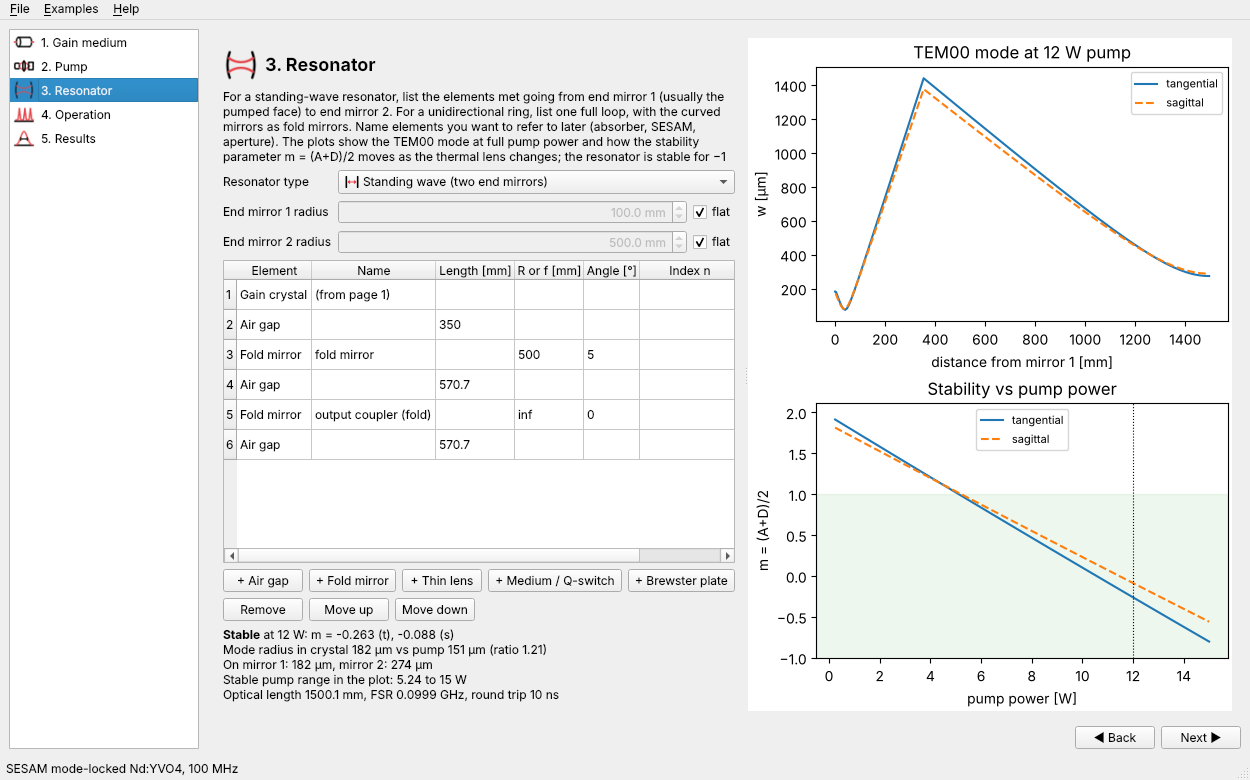
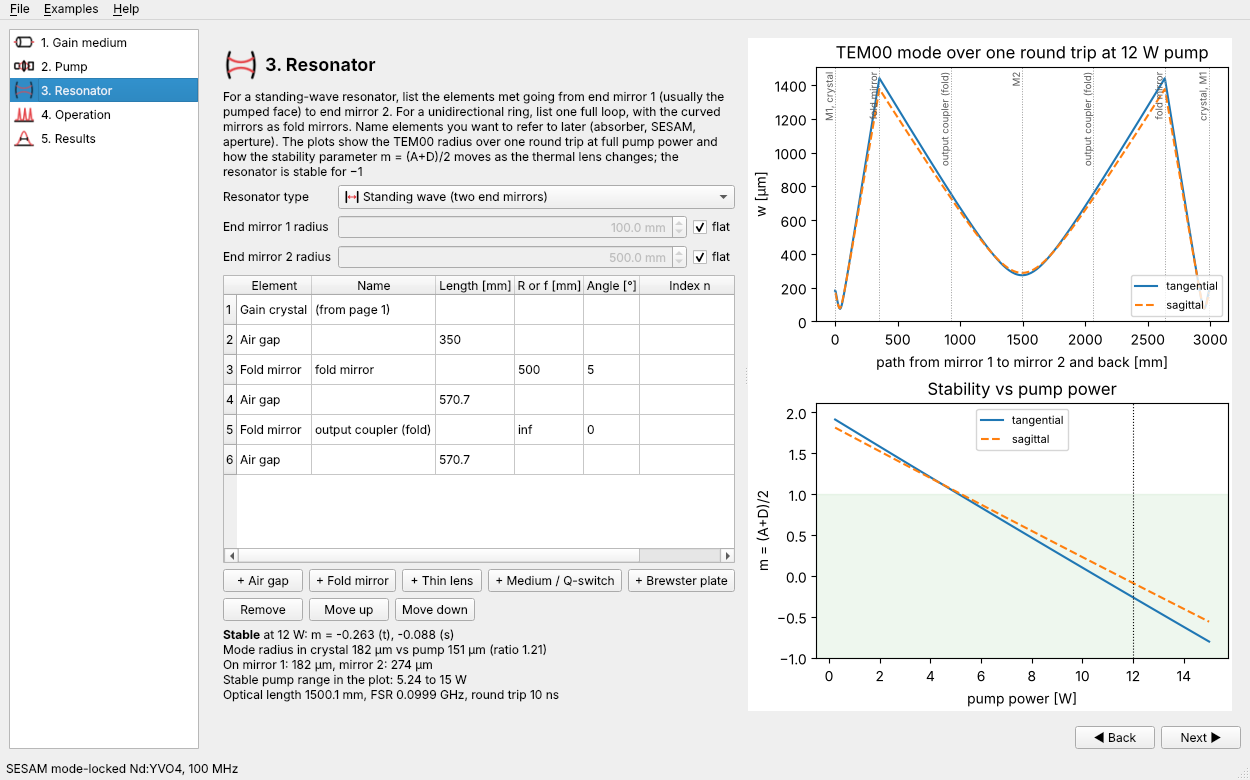
Plot the beam radius over one resonator round trip
The resonator step of the Qt wizard and the web version now shows the TEM00
radius over a full round trip: end mirror 1 -> end mirror 2 -> end mirror 1
for a standing-wave cavity, once around the loop for a ring. Mirrors, the
crystal and named thin elements are marked with labelled dotted lines.

- abcd: round_trip_profile() on both resonator types; ModeProfile gains
  landmarks.
- gui.spec.round_trip_mode(): shared plot data used by both front ends.
- web plot.js: labelled vertical reference lines.
- Tests, docs, CHANGELOG and screenshots updated.

Claude-Session: https://claude.ai/code/session_01VbzFnRmv7Hi3q9jw7PfLox

diff --git a/web/app.js b/web/app.js
@@ -448,7 +448,7 @@ const STEPS = [
   { key: "pump", title: "2. Pump", icon: "step-pump", inputs: pumpInputs,
     help: "Choose end pumping (a focused beam along the laser axis) or side pumping (a rod pumped uniformly from the side by diodes or lamps). Fibre-coupled diodes are best described by their M² (fibre radius × NA × π / λ)." },
   { key: "resonator", title: "3. Resonator", icon: "step-resonator", inputs: resonatorInputs,
-    help: "For a standing-wave resonator, list the elements met going from end mirror 1 (usually the pumped face) to end mirror 2. For a unidirectional ring, list one full loop, with the curved mirrors as fold mirrors. Name elements you want to refer to later (absorber, SESAM, aperture). The plots show the TEM00 mode at full pump power and how the stability parameter m = (A+D)/2 moves as the thermal lens changes; the resonator is stable for −1 < m < 1." },
+    help: "For a standing-wave resonator, list the elements met going from end mirror 1 (usually the pumped face) to end mirror 2. For a unidirectional ring, list one full loop, with the curved mirrors as fold mirrors. Name elements you want to refer to later (absorber, SESAM, aperture). The plots show the TEM00 radius over one round trip at full pump power (mirror 1 to mirror 2 and back to mirror 1, or once around the ring) and how the stability parameter m = (A+D)/2 moves as the thermal lens changes; the resonator is stable for −1 < m < 1." },
   { key: "operation", title: "4. Operation", icon: "step-operation", inputs: operationInputs,
     help: "Choose the output coupling, the other losses and how the laser is run: continuous wave, actively Q-switched with CW pumping, passively Q-switched with a saturable absorber, SESAM mode-locked, or Kerr-lens mode-locked." },
   { key: "results", title: "5. Results", icon: "step-results", inputs: resultsInputs,

diff --git a/web/plot.js b/web/plot.js
@@ -1,6 +1,6 @@
 // Small SVG line-plot renderer for the reports made by laserdesign.web.report.
 // No dependencies: linear and log axes, an optional second y axis, reference
-// lines, a shaded band, markers, a legend and a hover read-out.
+// lines (optionally labelled), a shaded band, markers, a legend and a hover read-out.
 
 const SVG = "http://www.w3.org/2000/svg";
 const DASH = { solid: "", dash: "6 4", dot: "1.5 3" };
@@ -109,7 +109,11 @@ export function drawPlot(host, p) {
   const xs_ = p.xlog ? logScale(...xr) : linearScale(...xr, Math.max(3, Math.round(W / 80)));
   const ys_ = p.ylog ? logScale(...yr) : linearScale(...yr, Math.max(3, Math.round(H / 45)));
   const y2s_ = y2r ? linearScale(...y2r, Math.max(3, Math.round(H / 45))) : null;
-  if (!p.xlog && !p.vlines.length) { xs_.lo = xr[0]; xs_.hi = xr[1]; }
+  // Snap the x axis to the data unless a reference line lies outside it.
+  const dataX = extent(p.series.flatMap((s) => s.x), p.xlog);
+  if (!p.xlog && dataX && p.vlines.every((v) => !finite(v.x) || (v.x >= dataX[0] && v.x <= dataX[1]))) {
+    xs_.lo = xr[0]; xs_.hi = xr[1];
+  }
 
   const tx = (v) => m.l + ((xs_.log ? Math.log10(v) : v) - xs_.lo) / (xs_.hi - xs_.lo) * W;
   const tyFor = (s) => (v) => m.t + H - ((s.log ? Math.log10(v) : v) - s.lo) / (s.hi - s.lo) * H;
@@ -158,6 +162,11 @@ export function drawPlot(host, p) {
   for (const v of p.vlines) {
     if (!finite(v.x)) continue;
     el("line", { x1: tx(v.x), x2: tx(v.x), y1: m.t, y2: m.t + H, class: "ref", "stroke-dasharray": DASH.dot }, body);
+    if (v.label) {
+      const X = tx(v.x) - 3, Y = m.t + 4;
+      el("text", { x: X, y: Y, "text-anchor": "end", class: "ref-label",
+        transform: `rotate(-90 ${X} ${Y})` }, body).textContent = v.label;
+    }
   }
   for (const h of p.hlines) {
     if (!finite(h.y)) continue;

diff --git a/web/style.css b/web/style.css
@@ -187,6 +187,7 @@ main { flex: 1; min-width: 0; padding: 16px 20px 24px; }
 .plot .axis text.label { fill: var(--text); font-size: 12px; }
 .plot .line { fill: none; stroke-width: 1.8; }
 .plot .ref { stroke: var(--muted); stroke-width: 1; }
+.plot .ref-label { fill: var(--muted); font-size: 10px; }
 .plot .band { fill: var(--band); }
 .plot .cross { stroke: var(--muted); stroke-width: 0.8; }
 .plot .c0 { stroke: var(--c0); fill: var(--c0); } .plot .line.c0 { fill: none; }

diff --git a/src/laserdesign/abcd.py b/src/laserdesign/abcd.py
@@ -296,11 +296,15 @@ class ModeProfile:
         1/e^2 intensity radius [m].
     element_starts : list of float
         Position at which each element begins.
+    landmarks : list of (float, str)
+        Positions of mirrors and named thin elements, with a label, for
+        annotating plots. Filled by :meth:`_Resonator.round_trip_profile`.
     """
 
     z: np.ndarray
     w: np.ndarray
     element_starts: list[float]
+    landmarks: list[tuple[float, str]] = field(default_factory=list)
 
 
 class _Resonator:
@@ -371,23 +375,44 @@ class _Resonator:
         """Mode radius at the input of the element called ``name`` [m]."""
         return self.spot_size(self.element_index(name), plane)
 
-    def mode_profile(self, plane: Plane = "t", points_per_element: int = 50) -> ModeProfile:
-        """Sample the mode radius along one forward pass of the element list."""
+    def _sample(self, elements: Sequence[Element], plane: Plane,
+                points_per_element: int) -> ModeProfile:
+        """Sample the mode radius through ``elements``, starting at the reference plane."""
         q = self.eigen_q(plane)
-        zs, ws, starts = [], [], []
+        zs, ws, starts, marks = [], [], [], []
         z0 = 0.0
-        for el in self.elements:
+        for el in elements:
             starts.append(z0)
             if el.length > 0:
                 for frac in np.linspace(0, 1, points_per_element):
                     qq = propagate_q(q, el.partial_matrix(frac, plane))
                     zs.append(z0 + frac * el.length)
                     ws.append(gaussian.spot_size(qq, self.wavelength))
+            elif isinstance(el, CurvedMirror) or el.name:
+                marks.append((z0, el.name or "mirror"))
             q = propagate_q(q, el.matrix(plane))
             z0 += el.length
         if not zs:
             zs, ws = [0.0], [gaussian.spot_size(q, self.wavelength)]
-        return ModeProfile(np.array(zs), np.array(ws), starts)
+        return ModeProfile(np.array(zs), np.array(ws), starts, marks)
+
+    def mode_profile(self, plane: Plane = "t", points_per_element: int = 50) -> ModeProfile:
+        """Sample the mode radius along one forward pass of the element list."""
+        return self._sample(self.elements, plane, points_per_element)
+
+    def round_trip_profile(self, plane: Plane = "t",
+                           points_per_element: int = 50) -> ModeProfile:
+        """Sample the mode radius over one full round trip.
+
+        For a :class:`StandingWaveCavity` the beam starts on end mirror 1,
+        travels to end mirror 2 and comes back to mirror 1, so ``z`` runs from
+        0 to twice the physical length and the curve is symmetric about
+        mirror 2. For a :class:`RingCavity` it is one trip around the loop,
+        the same as :meth:`mode_profile`. ``landmarks`` marks the mirrors
+        (end mirrors as ``"M1"``/``"M2"``) and any named thin element, e.g.
+        the crystal's thermal lens; the last point equals the first.
+        """
+        return self._sample(self._round_trip_elements(), plane, points_per_element)
 
     @property
     def physical_length(self) -> float:
@@ -450,7 +475,16 @@ class StandingWaveCavity(_Resonator):
 
     def _round_trip_elements(self) -> list[Element]:
         back = [el.reversed() for el in reversed(self.elements)]
-        return [*self.elements, CurvedMirror(self.R2), *back, CurvedMirror(self.R1)]
+        return [*self.elements, CurvedMirror(self.R2, name="M2"), *back,
+                CurvedMirror(self.R1, name="M1")]
+
+    def round_trip_profile(self, plane: Plane = "t",
+                           points_per_element: int = 50) -> ModeProfile:
+        prof = super().round_trip_profile(plane, points_per_element)
+        prof.landmarks.insert(0, (0.0, "M1"))
+        return prof
+
+    round_trip_profile.__doc__ = _Resonator.round_trip_profile.__doc__
 
     def spot_size_on_mirror(self, which: int = 1, plane: Plane = "t") -> float:
         """Mode radius on end mirror 1 or 2 [m]."""

diff --git a/src/laserdesign/web/report.py b/src/laserdesign/web/report.py
@@ -21,7 +21,7 @@ and a plot is::
      "series": [{"x": [...], "y": [...], "label": str, "dash": "solid" | "dash" | "dot",
                  "axis": "y" | "y2", "markers": bool, "color": int | None}],
      "hlines": [{"y": float, "axis": "y" | "y2", "dash": str, "label": str}],
-     "vlines": [{"x": float}], "hspan": [lo, hi] | None, "message": str | None}
+     "vlines": [{"x": float, "label": str}], "hspan": [lo, hi] | None, "message": str | None}
 
 The physics and wording follow the Qt wizard in :mod:`laserdesign.gui.pages`.
 """
@@ -43,6 +43,7 @@ from ..gui.spec import (
     build_laser,
     kerr_model,
     library_location,
+    round_trip_mode,
 )
 
 UM, MM, CM = 1e-6, 1e-3, 1e-2
@@ -93,8 +94,14 @@ def plot(title: str, xlabel: str, ylabel: str, *series_, y2label: str | None = N
     return {"title": title, "xlabel": xlabel, "ylabel": ylabel, "y2label": y2label,
             "xlog": xlog, "ylog": ylog, "ylim": list(ylim) if ylim is not None else None,
             "series": list(series_), "hlines": list(hlines),
-            "vlines": [{"x": float(v)} for v in vlines],
+            "vlines": [_vline(v) for v in vlines],
             "hspan": list(hspan) if hspan is not None else None, "message": message}
+
+
+def _vline(v) -> dict:
+    """``x`` or ``(x, label)`` -> ``{"x": x, "label": label}``."""
+    x, label = v if isinstance(v, (tuple, list)) else (v, "")
+    return {"x": float(x), "label": str(label)}
 
 
 def hline(y: float, axis: str = "y", dash: str = "dot", label: str = "") -> dict:
@@ -228,13 +235,15 @@ def resonator(spec: DesignSpec) -> dict:
     info, plots = [], []
     standing = isinstance(cav, StandingWaveCavity)
     if cav.is_stable():
-        mode = [series(prof.z / MM, prof.w / UM,
+        trip = round_trip_mode(cav)
+        mode = [series(trip[plane].z / MM, trip[plane].w / UM,
                        "tangential" if plane == "t" else "sagittal",
                        "solid" if plane == "t" else "dash")
-                for plane in ("t", "s") for prof in [cav.mode_profile(plane)]]
-        plots.append(plot(f"TEM00 mode at {spec.pump_power:.3g} W pump",
-                          "distance from mirror 1 [mm]" if standing
-                          else "position around the ring [mm]", "w [µm]", *mode))
+                for plane in ("t", "s")]
+        top = max(float(trip[p].w.max()) for p in ("t", "s")) / UM
+        plots.append(plot(f"{trip['title']} at {spec.pump_power:.3g} W pump",
+                          trip["xlabel"], "w [µm]", *mode, ylim=(0, 1.08 * top),
+                          vlines=[(z / MM, label) for z, label in trip["landmarks"]]))
         w_l = cav.spot_size_at(CRYSTAL_LENS_NAME)
         pump_kind = "rod" if isinstance(laser, SidePumpedRodLaser) else "pump"
         info.append(f"<b>Stable</b> at {spec.pump_power:.3g} W: m = "

diff --git a/src/laserdesign/gui/pages.py b/src/laserdesign/gui/pages.py
@@ -30,7 +30,7 @@ from ..materials import MATERIALS, get_material
 from ..passive_qswitch import ABSORBERS
 from . import icons
 from .spec import (CRYSTAL_LENS_NAME, DesignSpec, absorber, build_laser, kerr_model,
-                   library_location)
+                   library_location, round_trip_mode)
 from .widgets import PlotCanvas, RadiusInput, UnitSpin, info_label
 
 UM, MM, CM = 1e-6, 1e-3, 1e-2
@@ -415,7 +415,8 @@ class ResonatorPage(Page):
                  "mirror 1 (usually the pumped face) to end mirror 2. For a unidirectional "
                  "ring, list one full loop, with the curved mirrors as fold mirrors. Name "
                  "elements you want to refer to later (absorber, SESAM, aperture). The plots "
-                 "show the TEM00 mode at full pump power and how the stability parameter "
+                 "show the TEM00 radius over one round trip at full pump power and how the "
+                 "stability parameter "
                  "m = (A+D)/2 moves as the thermal lens changes; the resonator is stable "
                  "for −1 < m < 1.")
 
@@ -637,15 +638,20 @@ class ResonatorPage(Page):
         self.plot.clear()
         a1, a2 = self.plot.axes
         if cav.is_stable():
+            trip = round_trip_mode(cav)
             for plane, ls in (("t", "-"), ("s", "--")):
-                prof = cav.mode_profile(plane)
+                prof = trip[plane]
                 a1.plot(prof.z / MM, prof.w / UM, ls,
                         label="tangential" if plane == "t" else "sagittal")
+            a1.set_ylim(bottom=0)
+            for z, label in trip["landmarks"]:
+                a1.axvline(z / MM, c="0.6", lw=0.7, ls=":")
+                a1.text(z / MM, 0.98, label, rotation=90, ha="right", va="top", fontsize=7,
+                        color="0.35", transform=a1.get_xaxis_transform())
             standing = isinstance(cav, StandingWaveCavity)
-            a1.set(xlabel="distance from mirror 1 [mm]" if standing
-                   else "position around the ring [mm]", ylabel="w [µm]",
-                   title=f"TEM00 mode at {spec.pump_power:.3g} W pump")
-            a1.legend(fontsize=8)
+            a1.set(xlabel=trip["xlabel"], ylabel="w [µm]",
+                   title=f"{trip['title']} at {spec.pump_power:.3g} W pump")
+            a1.legend(fontsize=8, loc="lower right")
             w_l = cav.spot_size_at(CRYSTAL_LENS_NAME)
             pump_kind = "rod" if isinstance(laser, SidePumpedRodLaser) else "pump"
             text = (f"<b>Stable</b> at {spec.pump_power:.3g} W: m = "

diff --git a/src/laserdesign/gui/spec.py b/src/laserdesign/gui/spec.py
@@ -309,3 +309,36 @@ def build_laser(spec: DesignSpec) -> EndPumpedLaser | SidePumpedRodLaser:
                           output_coupling=spec.output_coupling,
                           passive_loss=spec.passive_loss, pump_passes=spec.pump_passes,
                           effective_absorption=spec.effective_absorption)
+
+
+def round_trip_mode(cavity) -> dict:
+    """What the resonator step plots: the TEM00 radius over one round trip.
+
+    Shared by the Qt wizard and the browser version. A standing-wave cavity
+    is traced from end mirror 1 to end mirror 2 and back to mirror 1; a ring
+    once around the loop (see :meth:`laserdesign.abcd._Resonator.round_trip_profile`).
+
+    Returns
+    -------
+    dict
+        ``"t"`` and ``"s"``: :class:`laserdesign.abcd.ModeProfile` for each
+        plane; ``"landmarks"``: ``[(z, label), ...]`` with the crystal shown as
+        ``"crystal"`` and labels closer than 3 % of the path merged; ``"xlabel"`` and ``"title"`` for the axis and plot.
+    """
+    profiles = {plane: cavity.round_trip_profile(plane) for plane in ("t", "s")}
+    # Landmarks closer than 3 % of the path share one label (e.g. M1 and a
+    # crystal bonded to it), so the text does not overprint.
+    span = float(profiles["t"].z[-1]) or 1.0
+    landmarks: list[tuple[float, str]] = []
+    for z, name in profiles["t"].landmarks:
+        name = "crystal" if name == CRYSTAL_LENS_NAME else name
+        if landmarks and z - landmarks[-1][0] < 0.03 * span:
+            landmarks[-1] = (landmarks[-1][0], f"{landmarks[-1][1]}, {name}")
+        else:
+            landmarks.append((z, name))
+    standing = isinstance(cavity, abcd.StandingWaveCavity)
+    return {**profiles, "landmarks": landmarks,
+            "xlabel": ("path from mirror 1 to mirror 2 and back [mm]" if standing
+                       else "position around the ring [mm]"),
+            "title": "TEM00 mode over one round trip" if standing
+            else "TEM00 mode around the ring"}

diff --git a/tests/test_abcd.py b/tests/test_abcd.py
@@ -89,6 +89,32 @@ def test_mode_profile_endpoints():
     assert prof.z[-1] == pytest.approx(0.3)
 
 
+def test_round_trip_profile_standing_wave():
+    cav = abcd.StandingWaveCavity([abcd.FreeSpace(0.1), abcd.ThinLens(0.4, name="lens"),
+                                   abcd.FreeSpace(0.2)], R1=np.inf, R2=0.5, wavelength=LAM)
+    prof = cav.round_trip_profile()
+    one = cav.mode_profile()
+    # M1 -> M2 -> M1: twice the length, closes on itself, mirror symmetric about M2.
+    assert prof.z[-1] == pytest.approx(0.6)
+    assert prof.w[0] == pytest.approx(prof.w[-1])
+    assert prof.w[0] == pytest.approx(cav.spot_size_on_mirror(1))
+    assert np.interp(0.3, prof.z, prof.w) == pytest.approx(cav.spot_size_on_mirror(2))
+    assert np.interp(0.45, prof.z, prof.w) == pytest.approx(np.interp(0.15, one.z, one.w))
+    assert prof.landmarks == [(0.0, "M1"), (pytest.approx(0.1), "lens"), (pytest.approx(0.3), "M2"),
+                              (pytest.approx(0.5), "lens"), (pytest.approx(0.6), "M1")]
+
+
+def test_round_trip_profile_ring_is_one_loop():
+    f, d = 0.5, 0.6
+    ring = abcd.RingCavity([abcd.FreeSpace(d), abcd.CurvedMirror(2 * f, name="A"),
+                            abcd.FreeSpace(d), abcd.CurvedMirror(2 * f)], wavelength=LAM)
+    prof = ring.round_trip_profile()
+    assert prof.z[-1] == pytest.approx(2 * d)
+    assert prof.w[0] == pytest.approx(prof.w[-1])
+    assert np.allclose(prof.w, ring.mode_profile().w)
+    assert [label for _, label in prof.landmarks] == ["A", "mirror"]
+
+
 def test_thermal_lens_crystal_helper():
     els = abcd.crystal_with_thermal_lens(0.01, 1.82, 0.2, name="YAG")
     assert [e.name for e in els][1] == "YAG thermal lens"

diff --git a/tests/test_web.py b/tests/test_web.py
@@ -49,6 +49,23 @@ def test_results_match_library():
     assert rows["Pulse energy"] == f"{qs['energy'] * 1e3:.3g} mJ"
 
 
+@pytest.mark.parametrize("name", ["CW Nd:YVO4 (30 W pump)", "Ring Nd:YVO4 (unidirectional bow-tie)"])
+def test_resonator_plots_one_round_trip(name):
+    spec = presets.PRESETS[name]()
+    cav = build_laser(spec).resonator(spec.pump_power)
+    mode = _run(spec, "resonator")["plots"][0]
+    x = mode["series"][0]["x"]
+    labels = [v["label"] for v in mode["vlines"]]
+    assert any("crystal" in label for label in labels)
+    if spec.cavity_type == "standing":
+        assert x[-1] == pytest.approx(2 * cav.physical_length * 1e3)
+        assert labels[0].startswith("M1") and labels[-1].endswith("M1") and "M2" in labels
+    else:
+        assert x[-1] == pytest.approx(cav.physical_length * 1e3)
+    w = mode["series"][0]["y"]
+    assert w[0] == pytest.approx(w[-1])
+
+
 def test_unstable_resonator_is_reported():
     spec = presets.cw_nd_yvo4()
     spec.elements = [{"type": "crystal"}, {"type": "space", "length": 2.0}]

diff --git a/docs/gui.md b/docs/gui.md
@@ -77,9 +77,13 @@ For the Q-switched laser:
 2. After the crystal, add a 10 mm air gap, a medium of 25 mm and n = 1.45
    named "AO Q-switch", and a 40 mm air gap.
 
-The upper plot shows the TEM00 mode along the cavity at full pump power in
-both planes (they differ only with off-axis curved mirrors or Brewster
-plates). The lower plot shows the stability parameter as the pump power, and
+The upper plot shows the TEM00 beam radius over one full round trip at full
+pump power, in both planes (they differ only with off-axis curved mirrors or
+Brewster plates). For a standing-wave resonator the trace starts on end
+mirror 1, runs to end mirror 2 and comes back to mirror 1, so it is
+symmetric about M2; for a ring it goes once around the loop. Dotted lines
+mark the mirrors (M1, M2 and fold mirrors by name), the crystal and any other
+named thin element. The lower plot shows the stability parameter as the pump power, and
 so the thermal lens, changes. The shaded band is the stable zone, and the
 dotted line marks your operating point. The summary gives the mode-to-pump
 size ratio in the crystal (aim for about 0.8 to 1 for TEM00 with good

diff --git a/CHANGELOG.md b/CHANGELOG.md
@@ -8,6 +8,12 @@ All notable changes to this project are documented here. The format follows
 
 ### Added
 
+- Beam radius over one round trip on the resonator step of the Qt wizard and
+  the web version: a standing-wave resonator is traced from end mirror 1 to
+  end mirror 2 and back to mirror 1, a ring once around the loop, with the
+  mirrors and crystal marked. New `round_trip_profile()` on
+  `StandingWaveCavity` and `RingCavity` (with `ModeProfile.landmarks`) and the
+  shared `laserdesign.gui.spec.round_trip_mode()` that both front ends plot.
 - Browser version of the design wizard (`web/`), with the app icon on its loading screen: the five steps of the Qt
   GUI as a static web page that runs `laserdesign`, NumPy and SciPy in the
   browser with Pyodide, in a Web Worker. Examples, open/save of the same JSON

diff --git a/docs/tutorial.md b/docs/tutorial.md
@@ -89,7 +89,10 @@ print(f"FSR: {cav.free_spectral_range / 1e9:.2f} GHz")
 ```
 
 Plot the mode through the cavity and the stability parameter versus pump
-power to see how much margin the design has:
+power to see how much margin the design has. `mode_profile()` samples one
+pass from mirror 1 to mirror 2; `round_trip_profile()` samples the full
+round trip (mirror 1 to mirror 2 and back, or once around a ring) and lists
+the mirror positions in `landmarks`:
 
 ```python
 import matplotlib.pyplot as plt
